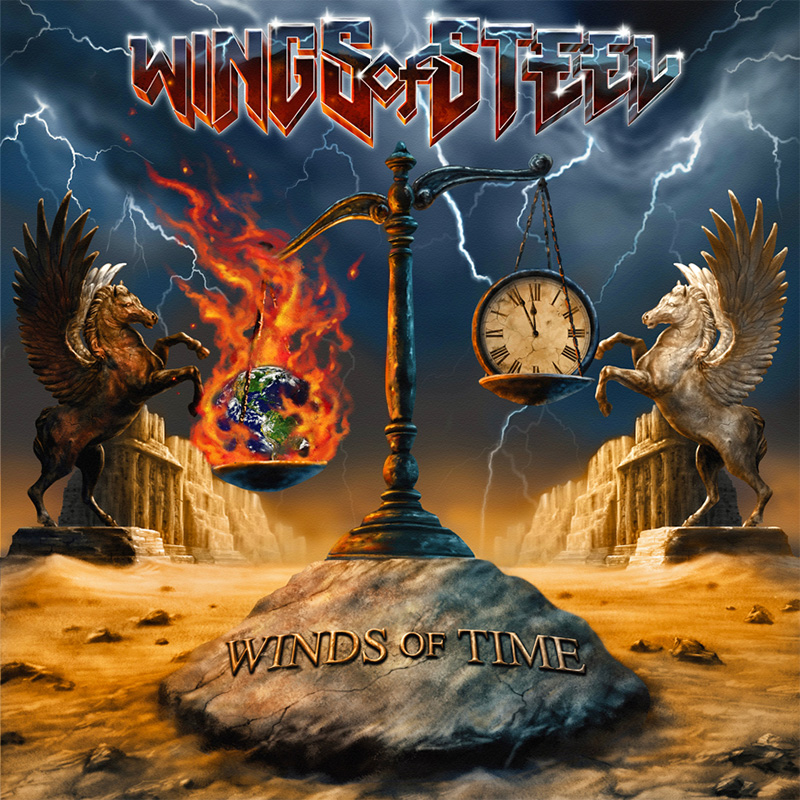
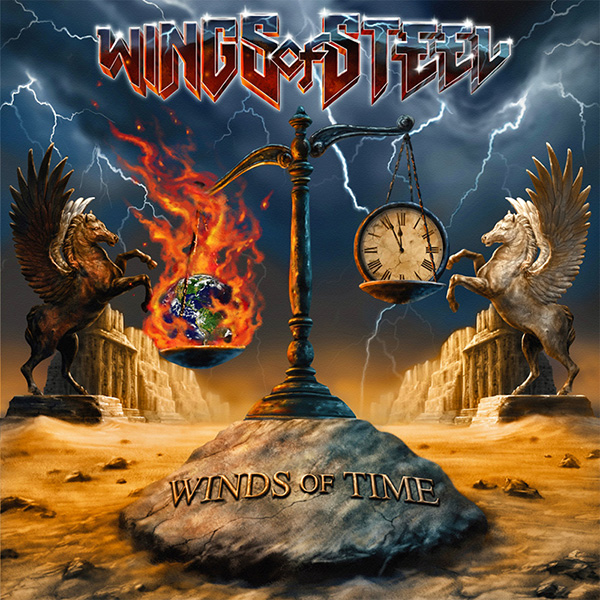
Update news cover size Update locations directories

diff --git a/layouts/_partials/report-entry.html b/layouts/_partials/report-entry.html
@@ -15,8 +15,9 @@
         </a>
     </h4>
     <div class="small text-body-tertiary">
-        {{ range $.GetTerms "locations" }}
-            {{ .LinkTitle }},
+        {{ range $index, $term := $.GetTerms "locations" }}
+            {{- if gt $index 0 -}},{{ end }}
+            {{ $term.LinkTitle -}}
         {{ end }}
         {{ if or (eq .Section "reports") (eq .Section "news") }}
             <span class="me-2">{{ partial "time.html" .Date }}</span>

diff --git a/content/locations/suisse/geneve/alhambra/index.md b/content/locations/suisse/geneve/alhambra/index.md
@@ -1,0 +1,12 @@
+---
+title: "Alhambra"
+cover: "cover.jpg"
+locations:
+  - Genève
+  - Suisse
+socials:
+  facebook: "AlhambraGeneve"
+  instagram: "alhambra__geneve"
+  web: "https://www.alhambra-geneve.ch/"
+---
+

diff --git a/content/locations/suisse/lausanne/les-docks/index.md b/content/locations/suisse/lausanne/les-docks/index.md
@@ -1,6 +1,9 @@
 ---
 title: "Les Docks"
-cover: "cover.png"
+cover: "cover.jpg"
+locations:
+  - Lausanne
+  - Suisse
 socials:
   facebook: "dockslausanne"
   instagram: "lesdocks_lausanne"

diff --git a/content/locations/france/nancy/zenith/index.md b/content/locations/france/nancy/zenith/index.md
@@ -1,6 +1,9 @@
 ---
 title: "Zénith de Nancy"
 cover: "cover.jpg"
+locations:
+  - Nancy
+  - France
 socials:
   facebook: "zenithdenancy"
   instagram: "zenithdenancy"
